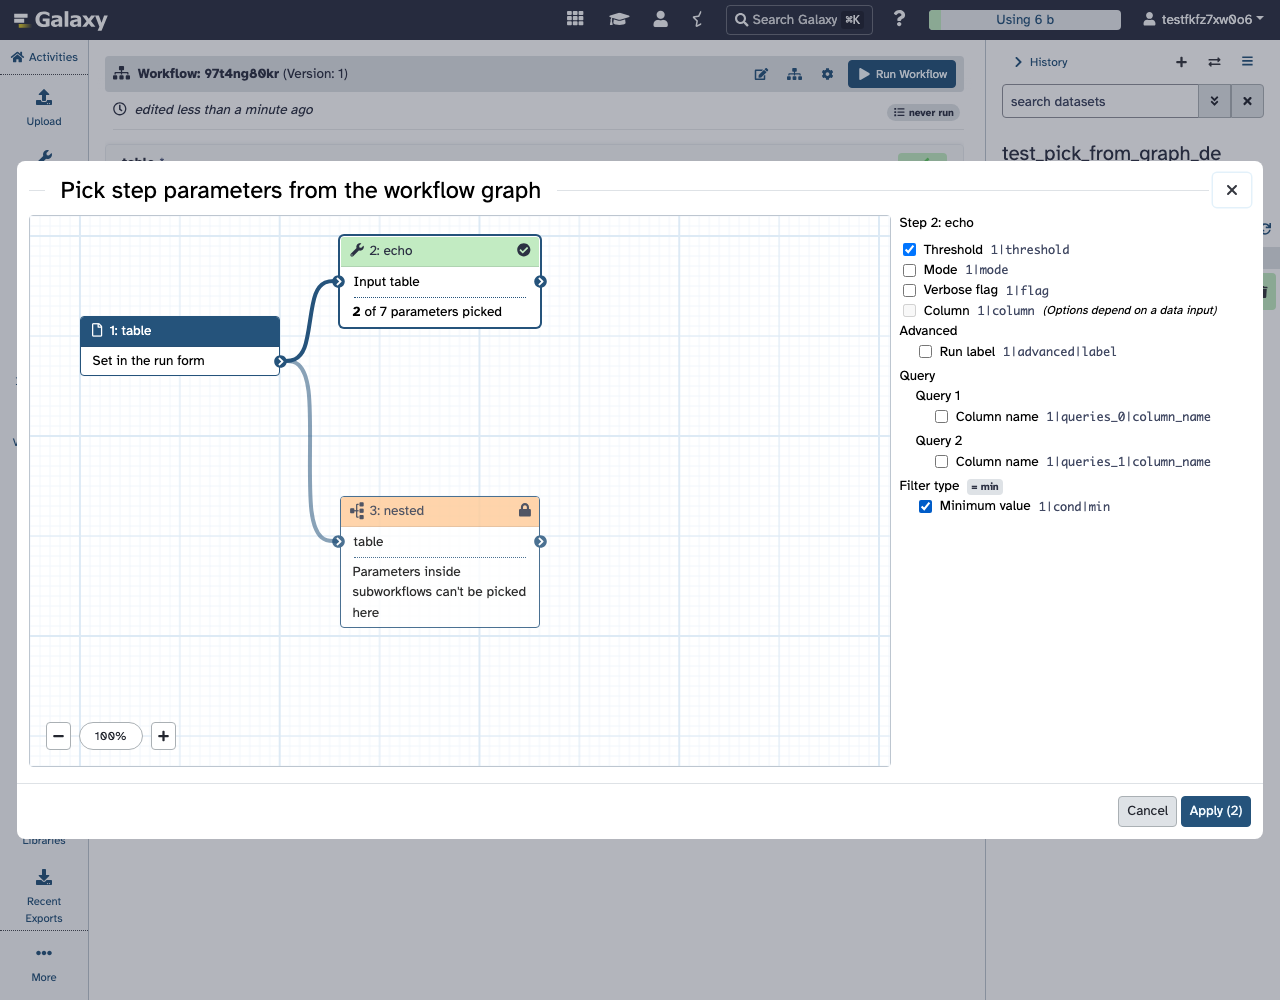
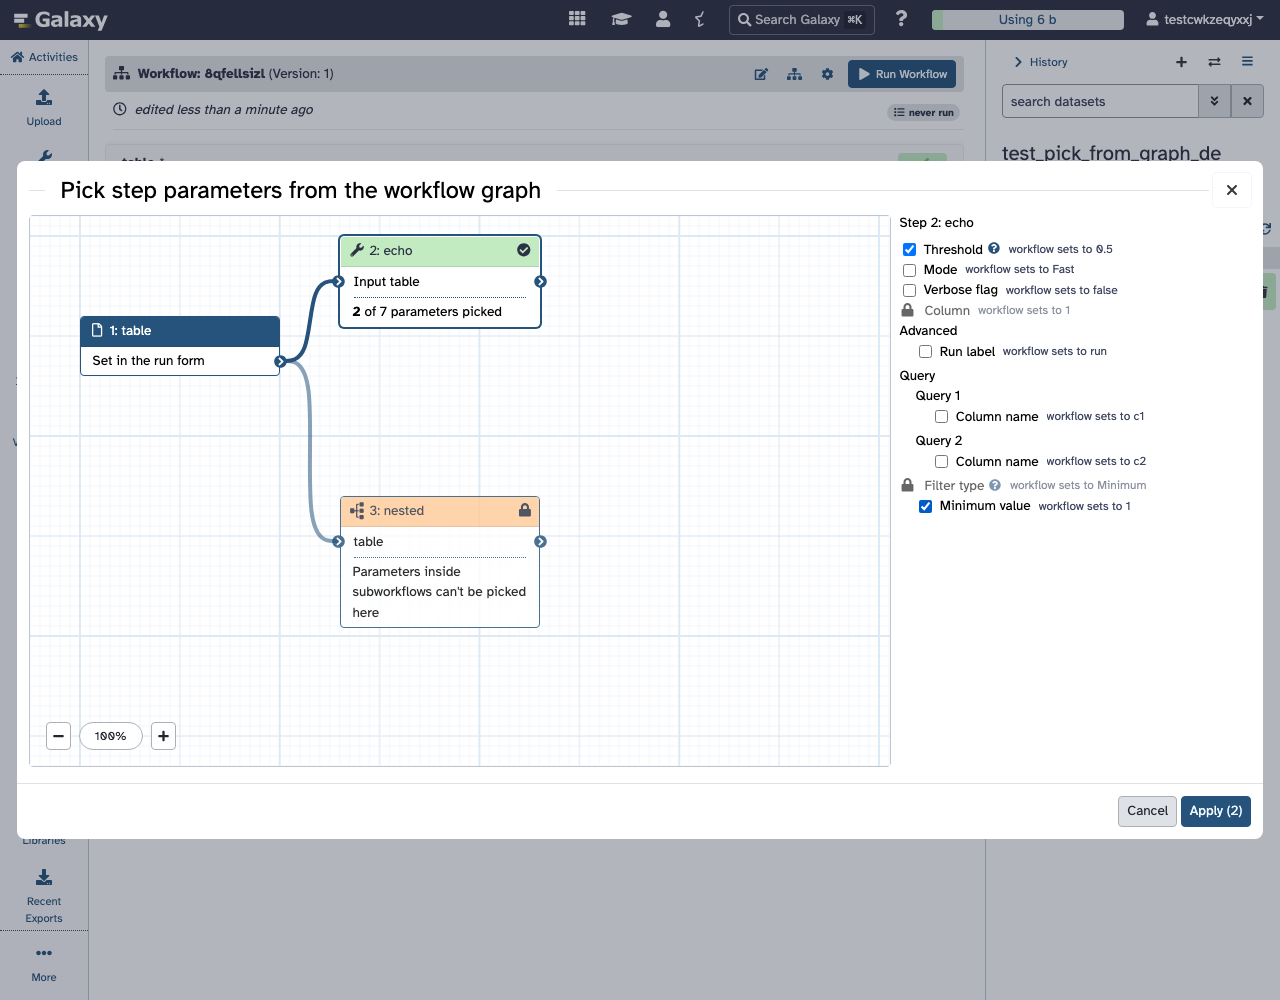
gx_spike: tree row polish on both step param spikes, new screenshots

diff --git a/vault/projects/workflow_applications/LESSONS_LEARNED.md b/vault/projects/workflow_applications/LESSONS_LEARNED.md
@@ -27,9 +27,17 @@ Spike of [RERUN_ISSUE.md](RERUN_ISSUE.md) / [RERUN_UX.md](RERUN_UX.md). Branch `
 
 ![empty](screenshots/rerun_empty.png)
 
-**Picker.** The tree mirrors the tool form: section (Advanced), repeat instances (Query 1/2), and a conditional whose selector is a fixed `= min` badge with only the active case listed. `Column` (a `data_column`) is shown disabled, with the reason. Exposure keys are shown next to labels.
+**Picker.** The tree mirrors the tool form: section (Advanced), repeat instances (Query 1/2), and a conditional with only the active case listed. Each row shows what the workflow sets ("workflow sets to 0.5"). Locked rows are grayed with a lock icon: the conditional selector (`Filter type`) and `Column` (a `data_column`). Exposure keys are not shown.
 
 ![picker](screenshots/rerun_picker_selected.png)
+
+**Help.** A `?` icon appears only on params with help text. Hover or click shows it.
+
+![help](screenshots/rerun_picker_help.png)
+
+**Locked conditional selector.** Hovering the lock explains: changing it would change which params below apply, so set it in the expanded form.
+
+![locked conditional](screenshots/rerun_picker_locked_conditional.png)
 
 **Picker filter** ("query") keeps the ancestor nodes.
 
@@ -61,7 +69,7 @@ Spike of [RERUN_ISSUE.md](RERUN_ISSUE.md) / [RERUN_UX.md](RERUN_UX.md). Branch `
 
 ## UI lessons
 
-1. **Picker tree: works.** For a tool with about 10 params it reads like the tool form. The conditional badge explains why the other case's params are missing. Exposure keys in the picker help when building links but are noise for most users, so put them behind a toggle or a tooltip.
+1. **Picker tree: works.** For a tool with about 10 params it reads like the tool form. The locked conditional selector, with its value, explains why the other case's params are missing. Polish pass (`a6e08520821`, on both spikes): keys hidden, workflow values and help shown, locked rows grayed with a lock tooltip. Two leftovers: the filter still matches the now-hidden keys, and the dropped-keys alert still lists raw keys.
 2. **Cards: work.** Rendering each card through its own one-input `FormDisplay` got validation, the right widget and value parsing for free. The "saved:" or "original run:" hint plus × covers "what am I changing". Nit: a conditional has no label, so the breadcrumb shows its name (`cond`). Use the test param's label.
 3. **Data-dependent params are the real scope problem.** `data_column` is shown disabled ("Options depend on a data input"). That's correct for a first pass, but column choice is probably the most common thing people want to change at run time (Cut, Filter, Sort, Join). Ship the first pass knowing that, and plan a follow-up that lets a `data_column` be picked once its `data_ref` input is chosen in the simple form.
 4. **The simple form sends values as strings** (`"0.9"`, `"5"`), the same as the expanded form, so `/request` records strings. Harmless, but tests must not compare types. An API-launched run (numbers) and its UI rerun (strings) record different JSON for the same values.

diff --git a/vault/repositories/galaxy/branches/active/workflow_run_exposed_step_params/alts/graph_picker.md b/vault/repositories/galaxy/branches/active/workflow_run_exposed_step_params/alts/graph_picker.md
@@ -1,6 +1,6 @@
 # Alt: graph_picker
 
-Branch `jmchilton/workflow_run_exposed_step_params_alt_graph_picker`, head `b54ebfabb34`, on the parent spike head `147dac7222a`. Spike only, no PR. Findings and screenshots: [LESSONS_LEARNED.md § Graph picker spike](../../../../../../projects/workflow_applications/LESSONS_LEARNED.md#graph-picker-spike).
+Branch `jmchilton/workflow_run_exposed_step_params_alt_graph_picker`, head `1c4e9534043`, rebased on the parent spike head `a6e08520821`. Spike only, no PR. Findings and screenshots: [LESSONS_LEARNED.md § Graph picker spike](../../../../../../projects/workflow_applications/LESSONS_LEARNED.md#graph-picker-spike).
 
 ## What it does
 

diff --git a/vault/repositories/galaxy/branches/active/workflow_run_exposed_step_params/index.md b/vault/repositories/galaxy/branches/active/workflow_run_exposed_step_params/index.md
@@ -5,7 +5,7 @@
 
 ## Status
 
-Spike, do not PR as is. Head `147dac7222a`, stacked on `issue_24177_rerun_step_params_full_form` (`46db8f9d5b6`) → #24176 → #24178 → `dev`.
+Spike, do not PR as is. Head `a6e08520821` (tree row polish), stacked on `issue_24177_rerun_step_params_full_form` (`46db8f9d5b6`) → #24176 → #24178 → `dev`.
 
 No PR.
 
